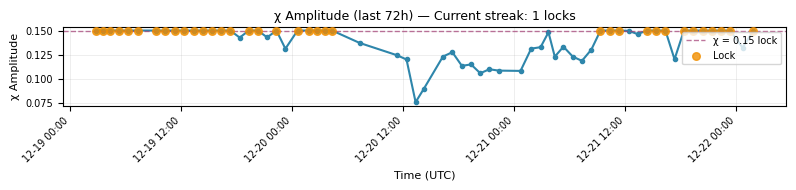
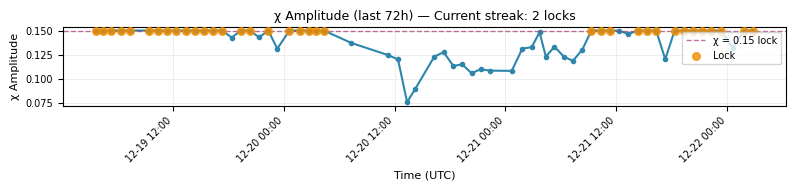
Vault Narrator: Auto-update 2025-12-22 03:34 UTC

diff --git a/LATEST_VAULT_STATUS.md b/LATEST_VAULT_STATUS.md
@@ -1,24 +1,26 @@
 # 🔐 VAULT STATUS REPORT
 
-**Generated:** 2025-12-22 02:43 UTC  
+**Generated:** 2025-12-22 03:34 UTC  
 **Data Source:** `data/cme_heartbeat_log_2025_12.csv`
 
 ---
 
 ## ⚡ CURRENT STATUS: ACTIVE
 
-**Latest χ = 0.15 Streak Count:** 1 consecutive readings  
-**Last Lock Timestamp:** 2025-12-22 01:50:00 UTC  
+**Latest χ = 0.15 Streak Count:** 2 consecutive readings  
+**Last Lock Timestamp:** 2025-12-22 02:52:00 UTC  
+**First Lock in Streak:** 2025-12-22 01:50:00 UTC  
+**Streak Duration:** 1.0 hours  
 
 **Latest Solar Wind Conditions:**  
-- Density: 3.37 p/cm³  
-- Speed: 697.7 km/s  
+- Density: 3.30 p/cm³  
+- Speed: 680.3 km/s  
 
 ---
 
 ## 🌞 NOAA SPACE WEATHER SUMMARIES
 
-- [SRS Report](reports/latest_srs.md) (fetched: 2025-12-22 02:43 UTC)  
+- [SRS Report](reports/latest_srs.md) (fetched: 2025-12-22 03:34 UTC)  
 - F10.7 Report: *not available*  
 
 ---
@@ -39,7 +41,6 @@
 
 | Time (UTC)          | χ Amplitude | Density (p/cm³) | Speed (km/s) | χ Status |
 |---------------------|-------------|-----------------|--------------|----------|
-| 2025-12-21 06:20:00 | 0.1230 | 5.54 | 555.4 | — |
 | 2025-12-21 07:19:00 | 0.1187 | 5.41 | 579.4 | — |
 | 2025-12-21 08:20:00 | 0.1303 | 4.24 | 575.1 | — |
 | 2025-12-21 09:19:00 | 0.1500 | 2.96 | 646.5 | ✅ LOCK |
@@ -59,6 +60,7 @@
 | 2025-12-21 23:19:00 | 0.1500 | 1.97 | 691.3 | ✅ LOCK |
 | 2025-12-22 00:40:00 | 0.1323 | 4.18 | 714.8 | — |
 | 2025-12-22 01:50:00 | 0.1500 | 3.37 | 697.7 | ✅ LOCK |
+| 2025-12-22 02:52:00 | 0.1500 | 3.30 | 680.3 | ✅ LOCK |
 
 ---
 
